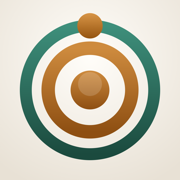
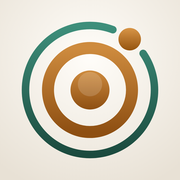
Real screenshots, the new mark, and the analytics privacy policy
The home page's four phone mockups are now the app's own screenshots of
the sample couple — Home, the past-markets replay, Can I afford this?,
and the retirement paycheck — as WebP, in the same phone frames. The
favicon, touch icon, share image and header mark are the new mark.

The privacy policy switches to its analytics section (Google Analytics
for Firebase: anonymous, never an amount from the plan, no advertising
ID, off in the EU/EEA, UK and Switzerland), and the summary, "Nothing
else" and deleting sections match. The support page and the home page
say the plan is never sent to us.

diff --git a/index.html b/index.html
@@ -55,29 +55,8 @@
 
       <!-- Home screen (sample plan) -->
       <figure class="phone-wrap" style="margin-bottom:0;">
-        <div class="phone" role="img" aria-label="Everglen's Home screen for a sample plan: the money lasts to age 100+, and in real market history since 1928 it lasted to 95 in 63 of 68 starting years — sturdy.">
-          <div class="island"></div>
-          <div class="screen" aria-hidden="true">
-            <div class="m-date">Thursday, September 24</div>
-            <div class="m-hello">Good morning, Alex</div>
-            <div class="m-card">
-              <span class="m-pill">In great shape</span>
-              <div class="m-eyebrow">If you retire at 65</div>
-              <div class="m-lasts">Your money lasts to age</div>
-              <div class="m-big">100+</div>
-              <div class="m-strong">Lasts well past your goal of 95.</div>
-              <div class="m-muted">About $410,000 left at 95, in today’s dollars.</div>
-              <div class="m-bar"><span class="goal" style="left:86%"></span></div>
-              <div class="m-bar-labels"><span>61</span><span style="margin-right:8%">Goal 95</span></div>
-              <div style="margin-top:8px;">In real market history since 1928, it lasted to 95 in <span class="m-strong">63 of 68</span> starting years — <span class="m-link">sturdy</span>.</div>
-              <div class="m-sep"></div>
-              <div class="m-row"><div><div class="m-link">Your plan</div><div class="m-muted">Retiring at 65 · $5,800 a month</div></div><span class="m-muted">›</span></div>
-              <div class="m-sep"></div>
-              <div class="m-row"><div><div class="m-link">Your paycheck at 65</div><div class="m-muted">$5,800 a month after tax</div></div><span class="m-muted">›</span></div>
-              <div class="m-sep"></div>
-              <div class="m-row"><div><div class="m-strong">Savings · $1,240,000</div><div class="m-muted">Updated today</div></div><span class="m-link">Update ›</span></div>
-            </div>
-          </div>
+        <div class="phone shot" role="img" aria-label="Everglen's Home screen for a sample couple: their money lasts to age 100+, and in real market history since 1928 it lasted until Tom turns 95 in 53 of 62 starting years — sturdy. Under it, their plan: retiring at 63 on $8,500 a month.">
+          <img class="shot-img" src="images/screen-home.webp" alt="" width="750" height="1630" />
         </div>
         <figcaption class="phone-caption">Home, for a sample plan</figcaption>
       </figure>
@@ -152,21 +131,8 @@
       </div>
 
       <figure class="phone-wrap" style="margin-bottom:0;">
-        <div class="phone" role="img" aria-label="The past-markets replay for a sample plan: the money lasted to 95 in 63 of 68 starting years, 93 percent, which is sturdy. The years it ran out were 1929, 1965, 1966, 1968 and 1973.">
-          <div class="island"></div>
-          <div class="screen" aria-hidden="true">
-            <div class="m-nav">Tested against history</div>
-            <div class="m-title">Your money lasted to 95 in 63 of 68 stretches of market history.</div>
-            <div class="m-muted" style="margin-bottom:10px;">We replayed your plan as if you’d started in every year from 1928 to 1995, living through the real returns and inflation that followed.</div>
-            <div class="m-card">
-              <div class="m-row" style="justify-content:flex-start;align-items:flex-end;"><span class="m-pct">93%</span><span class="m-muted">of starting years, your money lasted to 95</span></div>
-              <div class="m-years"><span></span><span class="out"></span><span></span><span></span><span></span><span></span><span></span><span></span><span></span><span></span><span></span><span></span><span></span><span></span><span></span><span></span><span></span><span></span><span></span><span></span><span></span><span></span><span></span><span></span><span></span><span></span><span></span><span></span><span></span><span></span><span></span><span></span><span></span><span></span><span></span><span></span><span></span><span class="out"></span><span class="out"></span><span></span><span class="out"></span><span></span><span></span><span></span><span></span><span class="out"></span><span></span><span></span><span></span><span></span><span></span><span></span><span></span><span></span><span></span><span></span><span></span><span></span><span></span><span></span><span></span><span></span><span></span><span></span><span></span><span></span><span></span><span></span></div>
-              <div class="m-bar-labels"><span>1928</span><span>1995</span></div>
-              <div class="m-legend" style="margin-top:6px;"><span><i style="background:var(--m-teal)"></i>Lasted</span><span><i style="background:var(--m-brick)"></i>Ran out</span></div>
-              <div style="margin:10px 0 6px;"><span class="m-pill">Sturdy</span></div>
-              <div>It lasted through almost every market. The hardest years to have retired were 1929, the late 1960s and 1973.</div>
-            </div>
-          </div>
+        <div class="phone shot" role="img" aria-label="The past-markets replay for a sample couple: their money lasted until Tom turns 95 in 53 of 62 stretches of market history, 85 percent — sturdy.">
+          <img class="shot-img" src="images/screen-markets.webp" alt="" width="750" height="1630" loading="lazy" />
         </div>
         <figcaption class="phone-caption">The past-markets replay, for a sample plan</figcaption>
       </figure>
@@ -182,52 +148,16 @@
     <div class="screens">
       <!-- Can I afford this? -->
       <figure class="phone-wrap">
-        <div class="phone" role="img" aria-label="Can I afford this? for a sample plan: spending $18,000 all at once, the money still lasts to 100+ at a steady return, and it is still sturdy in past markets.">
-          <div class="island"></div>
-          <div class="screen" aria-hidden="true">
-            <div class="m-nav">Can I afford this?</div>
-            <div class="m-title">How much would you like to spend?</div>
-            <div class="m-amount">$18,000</div>
-            <div class="m-seg"><span class="on">All at once</span><span>Over time</span><span>Ongoing</span></div>
-            <div class="m-card">
-              <div class="m-eyebrow" style="margin-top:0;">What it does to your plan</div>
-              <div class="m-title" style="font-size:14px;margin:4px 0 8px;">Your money still lasts to <span style="color:var(--m-copper)">100+</span> at a steady return.</div>
-              <div style="background:var(--m-tint);border-radius:12px;padding:9px 10px;">
-                <div class="m-eyebrow" style="margin:0 0 5px;color:var(--m-teal);">In past markets</div>
-                <span class="m-pill" style="background:var(--m-card);">Sturdy</span>
-              </div>
-              <div style="margin-top:9px;color:var(--m-text);">Comfortably affordable — and it still holds up in past markets.</div>
-            </div>
-            <div class="m-button">Update my plan</div>
-            <div class="m-foot">Estimates from the details you’ve entered, not financial or tax advice.</div>
-          </div>
+        <div class="phone shot" role="img" aria-label="Can I afford this? for a sample couple: spending $85,000 on a new kitchen, their money still lasts to 100+ at a steady return.">
+          <img class="shot-img" src="images/screen-afford.webp" alt="" width="750" height="1630" loading="lazy" />
         </div>
         <figcaption class="phone-caption">Can I afford this?</figcaption>
       </figure>
 
       <!-- Paycheck -->
       <figure class="phone-wrap">
-        <div class="phone" role="img" aria-label="Your retirement paycheck for a sample plan: $4,350 a month from the 401(k) up to the 12% bracket, $2,050 from taxable savings, nothing from the Roth yet, $600 withheld for tax, $5,800 a month after tax.">
-          <div class="island"></div>
-          <div class="screen" aria-hidden="true">
-            <div class="m-nav">Your paycheck</div>
-            <div class="m-title">Your retirement paycheck at 65</div>
-            <div class="m-card">
-              <div class="m-eyebrow" style="margin-top:0;">Each month</div>
-              <div class="m-big" style="font-size:40px;color:var(--m-copper);margin:4px 0 2px;">$5,800</div>
-              <div class="m-muted">after tax</div>
-              <div class="m-sep"></div>
-              <div class="m-row"><div><div class="m-strong">From your 401(k)</div><div class="m-muted">Up to the 12% bracket</div></div><span class="m-num">$4,350</span></div>
-              <div class="m-row"><div><div class="m-strong">From taxable savings</div><div class="m-muted">The rest</div></div><span class="m-num">$2,050</span></div>
-              <div class="m-row"><div><div class="m-strong">From your Roth</div><div class="m-muted">Last — left to grow</div></div><span class="m-num">$0</span></div>
-              <div class="m-sep"></div>
-              <div class="m-row"><div class="m-strong">Tax to withhold</div><span class="m-num copper">−$600</span></div>
-            </div>
-            <div class="m-card">
-              <div class="m-eyebrow copper" style="margin-top:0;">In January</div>
-              <div>Check last year against your 1099-Rs, and move what the standard deduction leaves room for to your Roth.</div>
-            </div>
-          </div>
+        <div class="phone shot" role="img" aria-label="Your retirement paycheck for a sample couple: $8,500 a month to spend, $6,077 from Linda's 401(k) and $3,623 from Tom's IRA, with 8% federal and 4% state tax withheld; the brokerage and Roth are left to grow.">
+          <img class="shot-img" src="images/screen-paycheck.webp" alt="" width="750" height="1630" loading="lazy" />
         </div>
         <figcaption class="phone-caption">Your retirement paycheck, with Plus</figcaption>
       </figure>
@@ -238,7 +168,7 @@
   <section class="section">
     <div class="eyebrow copper">Private by design</div>
     <h2 class="h2">No account. Nothing linked to a bank.</h2>
-    <p class="sub">You type in your savings, and your plan lives on your phone. We never see your name, your email, your plan or your savings.</p>
+    <p class="sub">You type in your savings, and your plan lives on your phone. We never see your name, your email, your savings or any amount from your plan.</p>
 
     <div class="feature-list two three">
       <div class="feature-row">

diff --git a/privacy.html b/privacy.html
@@ -35,7 +35,7 @@
 
   <div class="card">
     <h3>No account, and nothing linked to a bank</h3>
-    <div class="card-sub">Everglen has no sign-up and no login, and it never connects to banks or brokerages. Your plan stays on your phone and in your own iCloud or Google backup. We (Wally Apps) never receive your name, your email, your plan or your savings.</div>
+    <div class="card-sub">Everglen has no sign-up and no login, and it never connects to banks or brokerages. Your plan stays on your phone and in your own iCloud or Google backup. We (Wally Apps) never receive your name, your email, your savings or any amount from your plan — only anonymous analytics about how the app is used.</div>
   </div>
 
   <div class="prose">
@@ -58,26 +58,18 @@
     <p>We use <strong>RevenueCat</strong> to check purchases. RevenueCat receives an anonymous app user ID, the purchases you’ve made and their receipts, your device and operating system, and your country and IP address. It does not receive your name, your email or anything from your plan. The app contacts RevenueCat only when the Plus offer is shown (once after you finish setting up, or when you tap a Plus feature), when you buy or restore a purchase, and when the app opens if you have Plus. RevenueCat’s privacy policy is at <a class="lnk" href="https://www.revenuecat.com/privacy">revenuecat.com/privacy</a>.</p>
 
     <h2>Analytics</h2>
-    <p>Everglen does not use any analytics service. We don’t collect information about how you use the app.</p>
-
-    <!--
-    ANALYTICS — use this section instead of the one above if Google Analytics for
-    Firebase is switched on at launch (google-services.json / GoogleService-Info.plist
-    added to the build). Also update the summary card and "Nothing else" below.
-
-    <h2>Analytics</h2>
     <p>Everglen uses <strong>Google Analytics for Firebase</strong> to understand, in aggregate, how the app is used. It records anonymous events about the screens you open and the features you use — for example that setup was completed, whether the plan is for a couple, how many accounts it has, a chosen Social Security claiming age, that the Plus offer was viewed, or that a purchase was started. Firebase also records an anonymous app-instance ID, your device model, operating system and language, and an approximate location derived from your IP address.</p>
-    <p>Analytics <strong>never</strong> includes your balances, your spending, the names you give your accounts, or any other amount from your plan.</p>
+    <p>Analytics <strong>never</strong> includes your name, your balances, your spending, the names you give your accounts, or any other amount from your plan. It doesn’t use your device’s advertising ID, and it isn’t used for advertising.</p>
     <p>In the European Union and European Economic Area, the United Kingdom and Switzerland, analytics collection is switched off, and no consent prompt is shown. Firebase’s data practices are described at <a class="lnk" href="https://firebase.google.com/support/privacy">firebase.google.com/support/privacy</a>.</p>
-    -->
 
     <h2>Nothing else</h2>
-    <p>Everglen shows no ads and uses no advertising identifiers — it doesn’t track you across other apps or websites. It has no crash-reporting service of its own. We don’t use data brokers, and we don’t sell any data.</p>
+    <p>Apart from RevenueCat and Firebase, above, and your own iCloud or Google backup, nothing leaves your phone. Everglen shows no ads and uses no advertising identifiers — it doesn’t track you across other apps or websites. It has no crash-reporting service. We don’t use data brokers, and we don’t sell any data.</p>
 
     <h2>Deleting your data</h2>
     <p>In the app, go to <strong>Your details → Clear my details and start over</strong>. This deletes your plan, its history and your saved questions — on your phone and in the iCloud copy.</p>
     <p>Deleting the app removes what’s stored on your phone. On iPhone, the iCloud copy stays in your Apple account until you reinstall Everglen and start over. On Android, what’s in your Google backup is managed in your Google account.</p>
     <p>Purchases are kept by Apple or Google, not by us, and can be restored on a new phone.</p>
+    <p>Analytics events are anonymous — not tied to your name, email or plan — so they can’t be looked up or deleted for one person; Google deletes them automatically after a set retention period.</p>
 
     <h2>Children</h2>
     <p>Everglen is not directed at children under 13, and we don’t knowingly collect information from them.</p>

diff --git a/support.html b/support.html
@@ -57,7 +57,7 @@
   <details class="faq">
     <summary>Where is my plan kept? Is it private?<span class="plus">+</span></summary>
     <div class="a">
-      <p>Your plan is kept on your phone, with a copy in your own iCloud (on iPhone) or your Google backup (on Android) so it isn’t lost if you change phones. Nothing from your plan is sent to us.</p>
+      <p>Your plan is kept on your phone, with a copy in your own iCloud (on iPhone) or your Google backup (on Android) so it isn’t lost if you change phones. Your plan is never sent to us — no balances, spending or account names.</p>
       <p>The <a class="lnk" href="privacy.html">privacy policy</a> has the details.</p>
     </div>
   </details>

diff --git a/styles.css b/styles.css
@@ -365,6 +365,8 @@ strong { color: var(--text); font-weight: 500; }
   display: flex;
   flex-direction: column;
 }
+.phone.shot .island { display: none; } /* the screenshot has its own */
+.shot-img { display: block; width: 100%; height: auto; border-radius: 34px; }
 .phone-caption {
   text-align: center;
   font-size: 12.5px;
